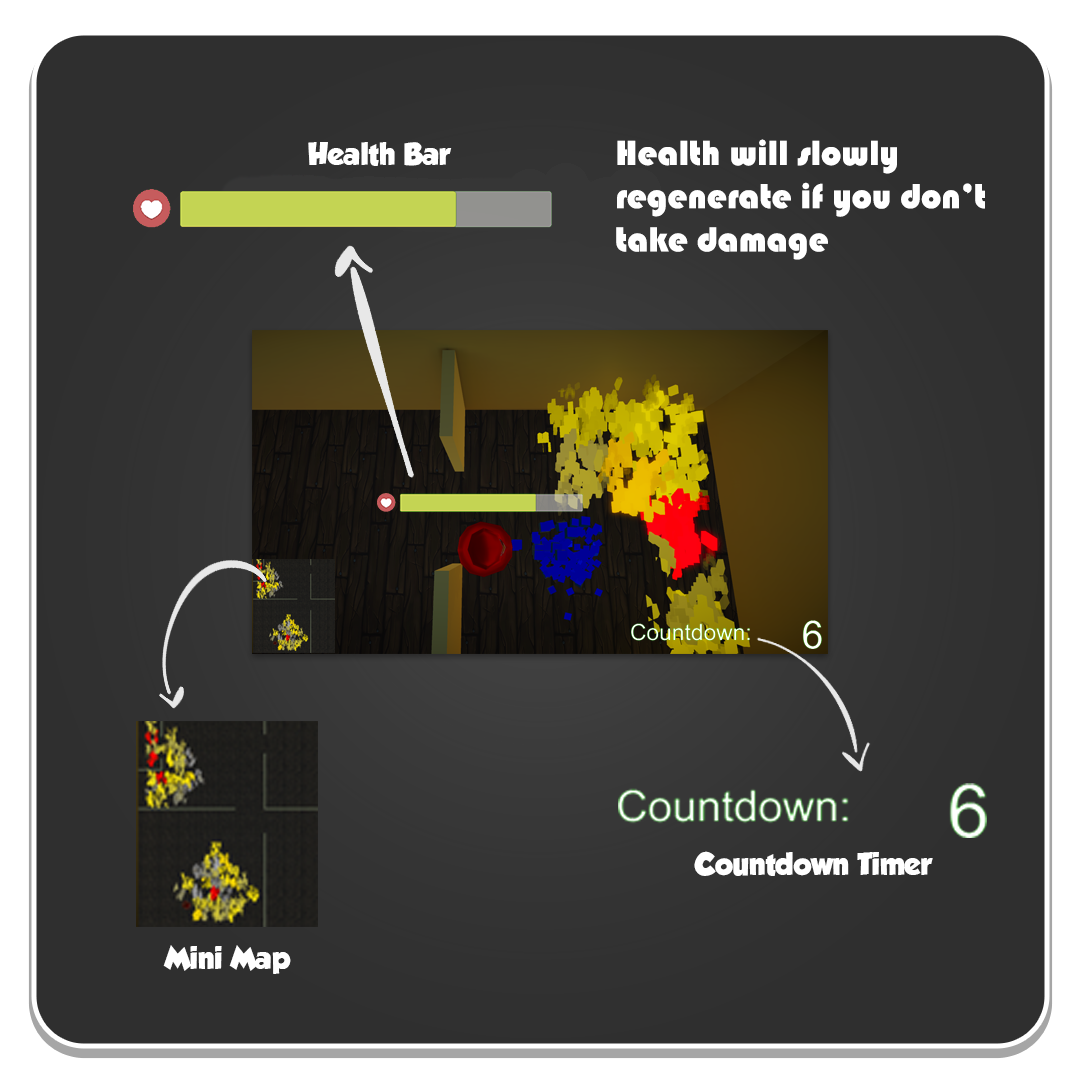
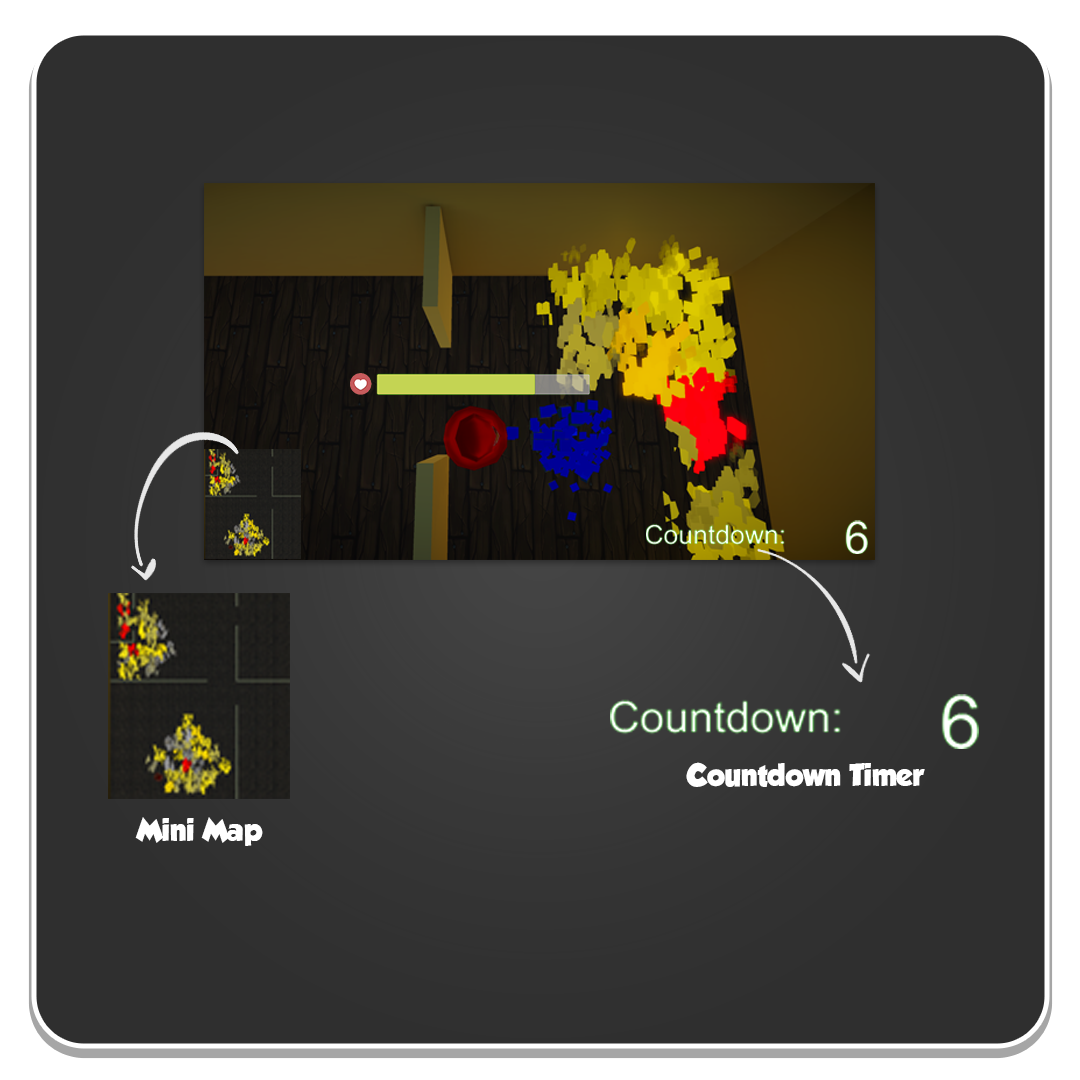
fix hp tutorial images
thanks reyhan <3

Changed region(s): [[0.0917, 0.1222, 0.9167, 0.9167], [0.8556, 0.6417, 0.9167, 0.7944], [0.6417, 0.7639, 0.8556, 0.825]]

diff --git a/BOFS/app/redline/templates/tutorial.html b/BOFS/app/redline/templates/tutorial.html
@@ -79,6 +79,9 @@
         <img src="{{url_for('redline.static', filename='images/intro 4.png')}}" alt="Intro 4">
       </div>
       <div>
+        <img src="{{url_for('redline.static', filename='images/intro 5.png')}}" alt="Intro 5">
+      </div>
+      <div>
         <div class="textSlide">
           <a href="/redirect_next_page" class="btn btn-primary btn-lg">Proceed to game</a>
         </div>
@@ -97,7 +100,7 @@
       });
 
       $('.tutorial').on('beforeChange', function(event, slick, currentSlide, nextSlide){
-        if( nextSlide == 4 ) {
+        if( nextSlide == 5 ) {
             $('.tutorial').slick('slickSetOption', 'autoplay', false, true);
         }
       });
